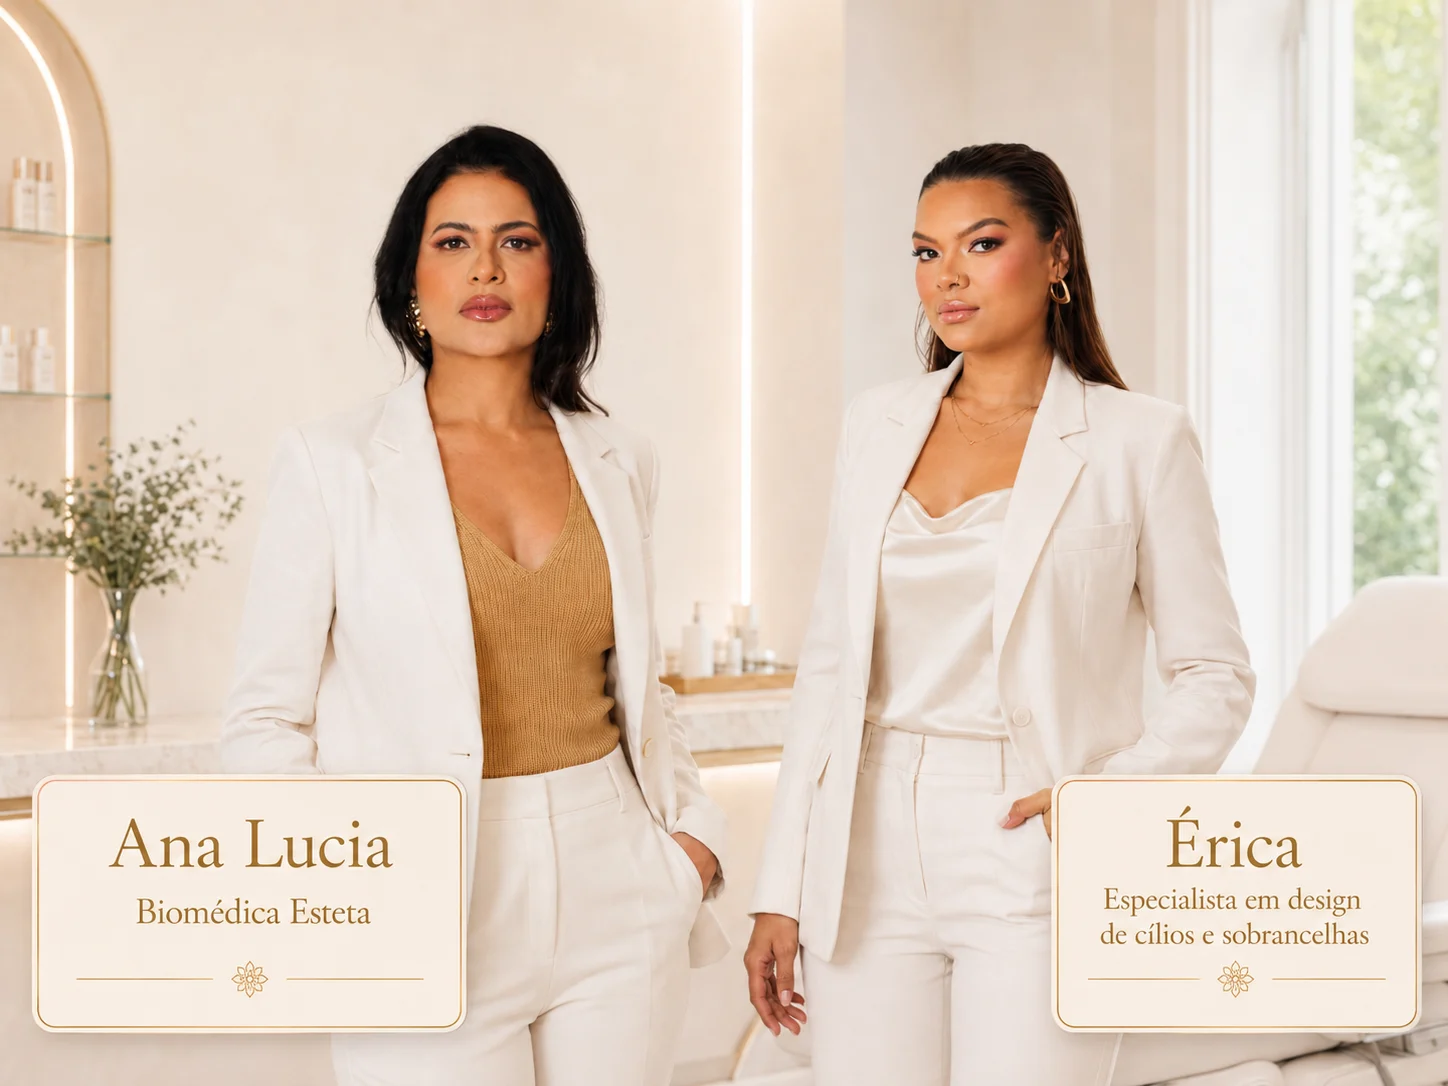
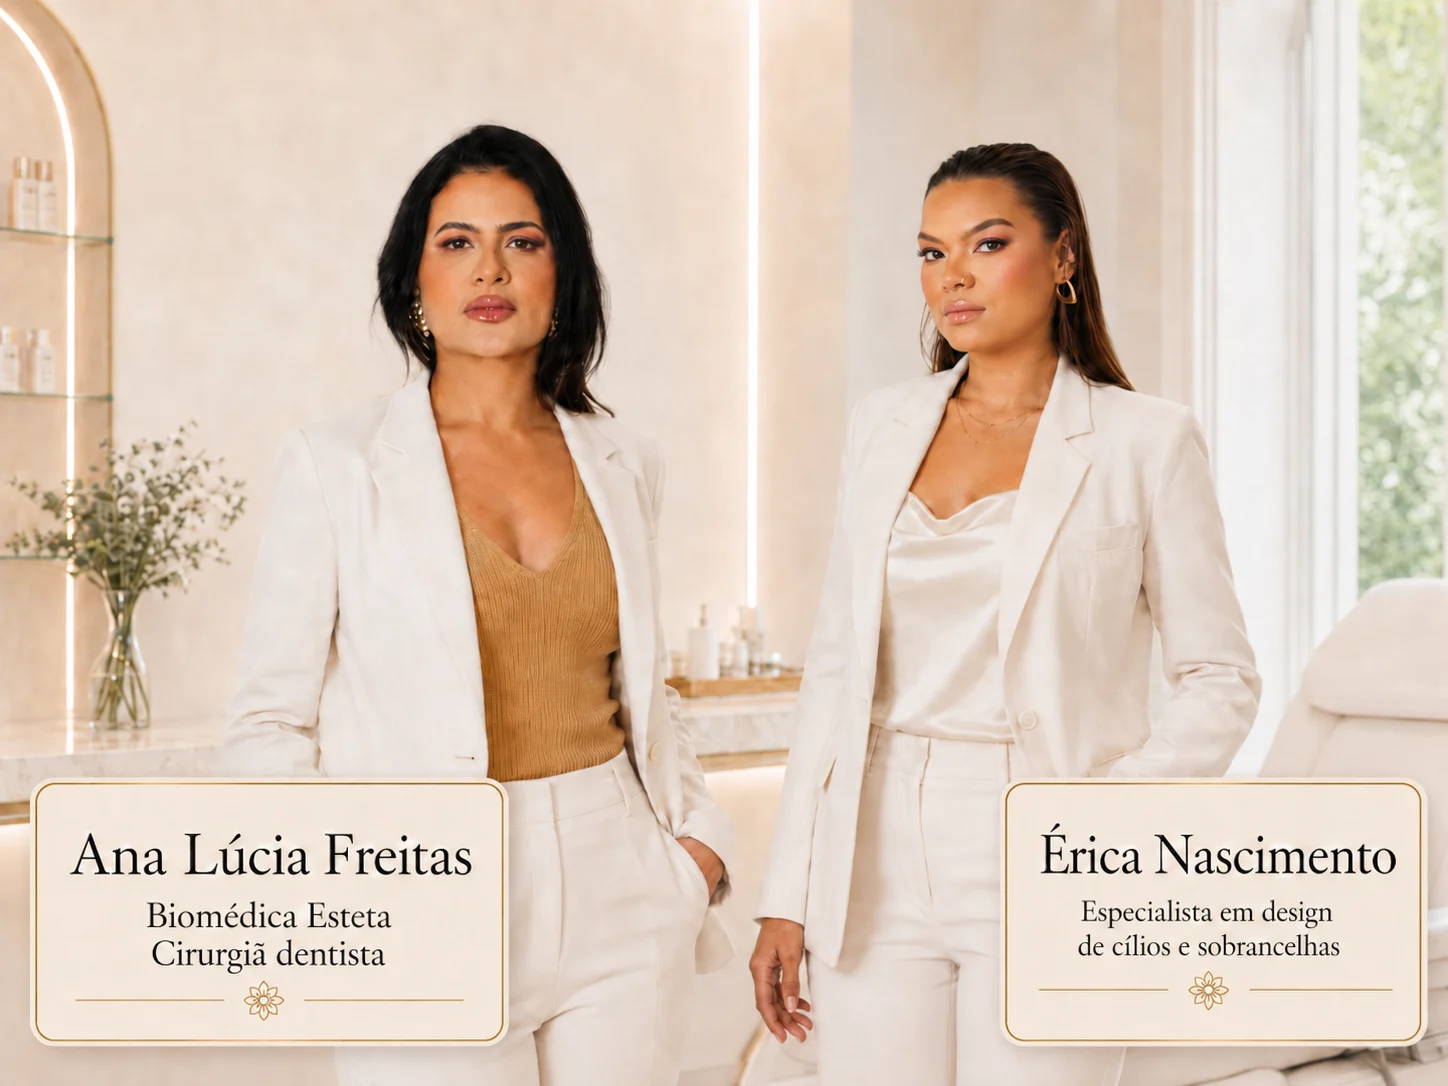
fix: update aesthetic portfolio and specialist content

diff --git a/data/client.js b/data/client.js
@@ -48,12 +48,12 @@ export const client = {
       estetica: {
         number: "5521964923211",
         label: "Estética Avançada",
-        specialist: "Ana Lucia"
+        specialist: "Ana Lúcia Freitas"
       },
       cilios: {
         number: "5521993127648",
         label: "Cílios e Sobrancelhas",
-        specialist: "Érica"
+        specialist: "Érica Nascimento"
       }
     },
     address: "Itanhangui Plaza, Estr. do Itanhangá, 483 - Sl 214 - Itanhangá, Rio de Janeiro - RJ, 22753-005",
@@ -126,8 +126,8 @@ export const client = {
     description: `
       <div class="specialist-team">
         <div class="specialist-member">
-          <h4>Ana Lucia</h4>
-          <p class="specialist-role">Estética Avançada & Biomedicina</p>
+          <h4>Ana Lúcia Freitas</h4>
+          <p class="specialist-role">Estética Avançada</p>
           <p>Procedimentos injetáveis (Botox, Preenchimento e Bioestimuladores) focados em rejuvenescimento sutil e segurança anatômica.</p>
           <div class="specialist-bullets-mini">
             <div class="bullet-mini animate" style="transition-delay: 100ms;"><span class="bullet-mini-num">01</span><span class="bullet-mini-txt">Botox Natural</span></div>
@@ -136,7 +136,7 @@ export const client = {
           </div>
         </div>
         <div class="specialist-member">
-          <h4>Érica</h4>
+          <h4>Érica Nascimento</h4>
           <p class="specialist-role">Cílios & Sobrancelhas</p>
           <p>Extensões e micropigmentação personalizadas para realçar o olhar com delicadeza e elegância.</p>
           <div class="specialist-bullets-mini">
@@ -229,13 +229,13 @@ export const client = {
     {
       name: "Fernanda M.",
       procedure: "Preenchimento Labial",
-      text: "A Ana Lúcia tem uma sensibilidade única. Lábio definido, proporcional e sem exageros. Superei o medo que tinha do procedimento.",
+      text: "A Ana Lúcia Freitas tem uma sensibilidade única. Lábio definido, proporcional e sem exageros. Superei o medo que tinha do procedimento.",
       initials: "FM"
     },
     {
       name: "Leticia S.",
       procedure: "Extensão de Cílios",
-      text: "A Érica é incrível! Meus cílios ficaram exatamente como eu sonhei — delicados e elegantes. Já marquei a manutenção!",
+      text: "A Érica Nascimento é incrível! Meus cílios ficaram exatamente como eu sonhei — delicados e elegantes. Já marquei a manutenção!",
       initials: "LS"
     },
     {
@@ -260,15 +260,15 @@ export const client = {
 
   whatsappMessages: {
     heroCta: "Olá, vim pelo site da Vanna Clinic e gostaria de saber mais sobre a avaliação de procedimentos.",
-    specialistCta: "Olá, quero falar com a Ana Lucia / Érica sobre procedimentos na Barra da Tijuca.",
+    specialistCta: "Olá, quero falar com a Ana Lúcia Freitas / Érica Nascimento sobre procedimentos na Barra da Tijuca.",
     finalCta: "Olá, gostaria de agendar uma consulta na Vanna Clinic.",
     floatingCta: "Olá! Gostaria de tirar algumas dúvidas sobre os procedimentos da Vanna Clinic.",
     locationCta: "Olá, gostaria de saber como chegar na Vanna Clinic e agendar um horário.",
     navbarCta: "Olá, gostaria de agendar um horário na Vanna Clinic pelo botão do cabeçalho.",
-    specialistAnalucia: "Olá Dra. Ana Lúcia, gostaria de saber mais sobre os procedimentos de Estética Avançada.",
-    specialistErica: "Olá Érica, gostaria de saber mais sobre os procedimentos de Cílios e Sobrancelhas.",
-    dialogEstetica: "Olá Dra. Ana Lúcia, vim pelo site da Vanna Clinic e gostaria de agendar uma avaliação de Estética Avançada.",
-    dialogCilios: "Olá Érica, vim pelo site da Vanna Clinic e gostaria de saber mais sobre design de cílios e sobrancelhas."
+    specialistAnalucia: "Olá Dra. Ana Lúcia Freitas, gostaria de saber mais sobre os procedimentos de Estética Avançada.",
+    specialistErica: "Olá Érica Nascimento, gostaria de saber mais sobre os procedimentos de Cílios e Sobrancelhas.",
+    dialogEstetica: "Olá Dra. Ana Lúcia Freitas, vim pelo site da Vanna Clinic e gostaria de agendar uma avaliação de Estética Avançada.",
+    dialogCilios: "Olá Érica Nascimento, vim pelo site da Vanna Clinic e gostaria de saber mais sobre design de cílios e sobrancelhas."
   },
 
   // Referências Importadas

diff --git a/index.html b/index.html
@@ -425,11 +425,11 @@
       <div class="wa-dialog-options">
         <a href="#" target="_blank" rel="noopener" class="wa-dialog-option wa-link" data-specialist="estetica" data-wa-key="dialogEstetica">
           <div class="wa-option-title">Estética Avançada</div>
-          <div class="wa-option-desc">Procedimentos corporais e faciais com Dra. Ana Lúcia</div>
+          <div class="wa-option-desc">Procedimentos corporais e faciais com Dra. Ana Lúcia Freitas</div>
         </a>
         <a href="#" target="_blank" rel="noopener" class="wa-dialog-option wa-link" data-specialist="cilios" data-wa-key="dialogCilios">
           <div class="wa-option-title">Cílios e Sobrancelhas</div>
-          <div class="wa-option-desc">Extensões, design e micropigmentação com Érica</div>
+          <div class="wa-option-desc">Extensões, design e micropigmentação com Érica Nascimento</div>
         </a>
       </div>
     </div>

diff --git a/data/quiz.js b/data/quiz.js
@@ -114,7 +114,7 @@ export const quiz = {
       },
       {
         label: "Cílios e Sobrancelhas",
-        sublabel: "Extensões, design de olhar e micropigmentação com a Érica.",
+        sublabel: "Extensões, design de olhar e micropigmentação com a Érica Nascimento.",
         icon: "cilios",
         branch: "cilios"
       }
@@ -131,7 +131,7 @@ export const quiz = {
       question: "Por onde você gostaria de começar?",
       options: [
         { label: "Estética Avançada", sublabel: "Botox, preenchimento, bioestimuladores e harmonização facial.", icon: "syringe" },
-        { label: "Cílios e Sobrancelhas", sublabel: "Extensões, design de olhar e micropigmentação com a Érica.", icon: "cilios" }
+        { label: "Cílios e Sobrancelhas", sublabel: "Extensões, design de olhar e micropigmentação com a Érica Nascimento.", icon: "cilios" }
       ]
     }
   ]

diff --git a/css/sections.css b/css/sections.css
@@ -1307,7 +1307,7 @@
       position: absolute;
       inset: 0;
       pointer-events: none;
-      background: linear-gradient(180deg, rgba(var(--c-bg-rgb), .05), transparent 42%);
+      background: none;
     }
     .localizacao > .container {
       position: relative;
